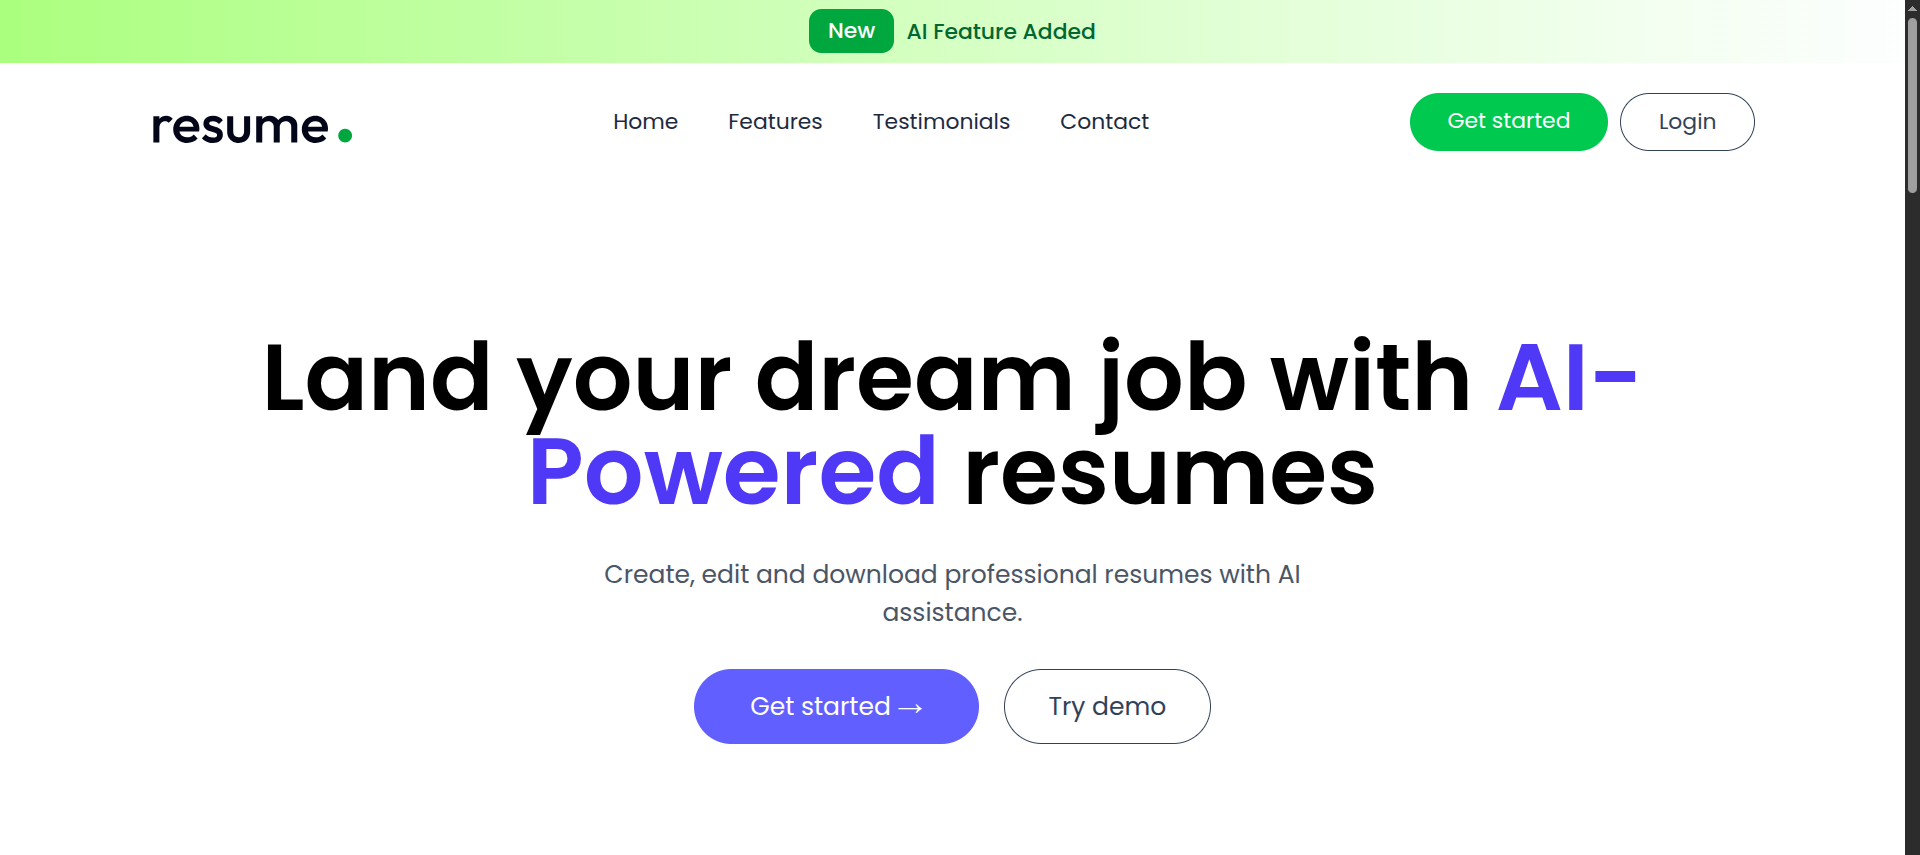
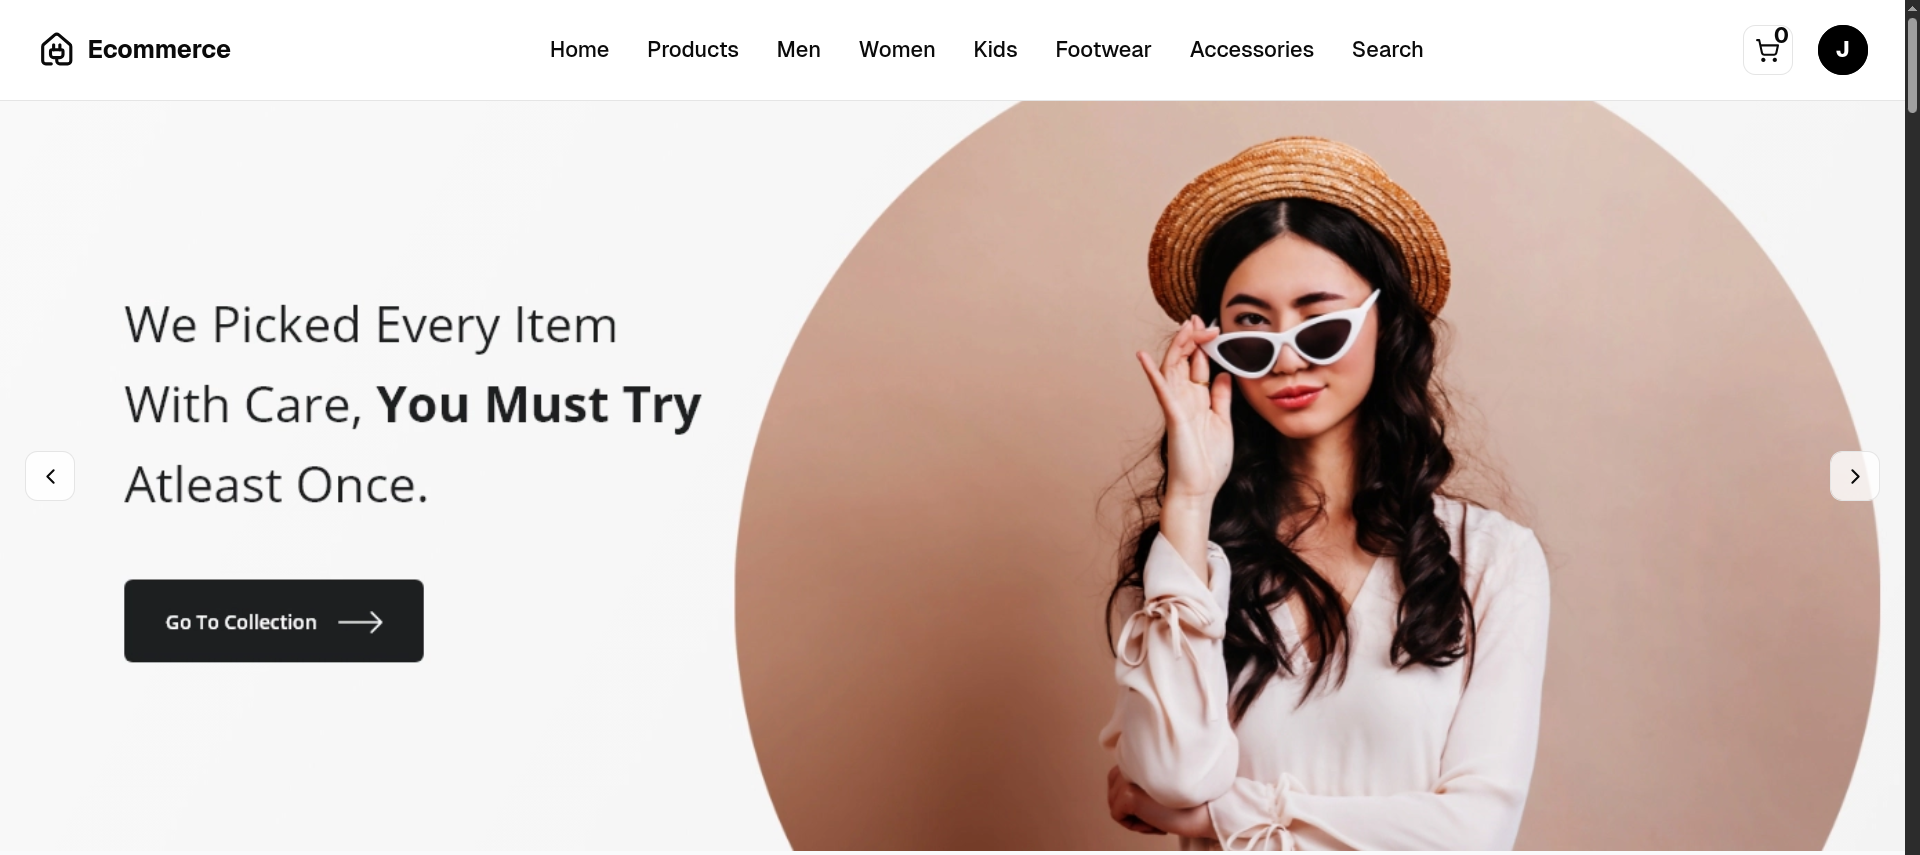
lms project added

diff --git a/src/components/Projects.jsx b/src/components/Projects.jsx
@@ -192,42 +192,300 @@
 
 // export default Projects;
 
-import React from "react";
+
+
+
+
+// import React from "react";
+// import project1 from "../assets/project1.png";
+// import project2 from "../assets/project2.png";
+// import project3 from "../assets/project3.png";
+// import project4 from "../assets/project4.png";
+// import { FaExternalLinkAlt, FaGithub } from "react-icons/fa";
+
+// const Projects = ({ darkMode }) => {
+//   const projects = [
+//     {
+//       id: 1,
+//       title: "MERN-AI-Learning Management System",
+//       desc: "An AI-powered Learning Management System that enables educators to create and manage courses while students can enroll, learn, review courses, make secure payments, and search content using an AI voice assistant.",
+//       image: project1,
+//       tags: ["React.js ","Node.js","Express.js","MongoDB","Tailwind CSS","Firebase","Open AI","Redux toolkit","Cloudinary"],
+//       github: "https://github.com/jofimoljohnson/MERN-AI-LMS",
+//       demo: "https://mern-ai-lms.vercel.app",
+//     },
+//     {
+//       id: 2,
+//       title: "E-Commerce Platform",
+//       desc: "A full-stack e-commerce platform with authentication, cart management, PayPal checkout, and admin features for product and order management.",
+//       image: project2,
+//       tags: ["React.js", "Redux Toolkit", "Node.js", "Express.js", "MongoDB", "Tailwind CSS", "shadcn/ui"],
+//       github: "https://github.com/jofimoljohnson/Mern-ecommerce",
+//       demo: "https://mern-ecommerce-gzvy.vercel.app",
+//     },
+//     {
+//       id: 3,
+//       title: "AI Resume Builder",
+//       desc: "An AI-powered resume builder that allows users to create, customize, save, and download professional resumes with real-time preview.",
+//       image: project3,
+//       tags: ["React.js", "Tailwind CSS", "Redux Toolkit", "Node.js", "Express.js", "MongoDB", "OpenAI API", "ImageKit"],
+//       github: " https://github.com/jofimoljohnson/MERN-RESUME-BUILDER",
+//       demo: " https://mern-resume-builder-4suh.vercel.app",
+//     },
+//     {
+//       id: 4,
+//       title: "YouTube Clone",
+//       desc: "A responsive YouTube-style web application with video browsing, API-based data fetching, cateogory-based filtering, routing, and related video suggestions.",
+//       image: project4,
+//       tags: ["React JS", "Axios", "Material-UI", "React-router-dom", "CSS", "React Router"],
+//       github: "https://github.com/jofimoljohnson/YOUTUBE-CLONE-PROJECT",
+//       demo: "https://youtube-clone-omega-flax.vercel.app",
+//     },
+//   ];
+
+//   return (
+//     <div>
+//       <section
+//         id="projects"
+//         style={{
+//           backgroundColor: darkMode ? "#111827" : "#f9fafb",
+//         }}
+//         className="relative py-24"
+//       >
+//         <div className="container mx-auto px-4">
+//           {/* Heading */}
+//           <div className="text-center mb-10" data-aos="fade-up">
+//             <h2
+//               className="text-3xl sm:text-4xl font-bold mb-3"
+//               style={{
+//                 color: darkMode ? "white" : "#1f2937",
+//               }}
+//             >
+//               My{" "}
+//               <span
+//                 style={{
+//                   background: "linear-gradient(to right, #f97316, #f59e0b)",
+//                   WebkitBackgroundClip: "text",
+//                   backgroundClip: "text",
+//                   color: "transparent",
+//                 }}
+//               >
+//                 Projects
+//               </span>
+//             </h2>
+
+//             <p
+//               className="max-w-xl mx-auto"
+//               style={{
+//                 color: darkMode ? "#d1d5db" : "#6b7280",
+//               }}
+//             >
+//               A showcase of my recent work
+//             </p>
+//           </div>
+
+//           {/* Projects Grid */}
+//           <div className="grid grid-cols-1 md:grid-cols-2 lg:grid-cols-3 gap-5 mb-12">
+//             {projects.map((project, index) => (
+//               <div
+//                 key={project.id}
+//                 style={{
+//                   background: darkMode
+//                     ? "linear-gradient(to right, #1f2937, #111827)"
+//                     : "linear-gradient(to right, #ffffff, #f9fafb)",
+//                   borderColor: darkMode ? "#374151" : "#e5e7eb",
+//                 }}
+//                 className="group rounded-xl border duration-300 hover:border-orange-500/50 transition-all overflow-hidden"
+//                 data-aos="fade-up"
+//                 data-aos-delay={index * 100}
+//               >
+//                 {/* Image */}
+//                 <div className="h-36 overflow-hidden">
+//                   <img
+//                     src={project.image}
+//                     alt={project.title}
+//                     className="w-full h-full object-cover group-hover:scale-110 transition-transform duration-500"
+//                   />
+//                 </div>
+
+//                 {/* Content */}
+//                 <div className="p-4">
+//                   <h3
+//                     className="text-lg font-bold mb-2"
+//                     style={{
+//                       color: darkMode ? "white" : "#1f2937",
+//                     }}
+//                   >
+//                     {project.title}
+//                   </h3>
+
+//                   <p
+//                     className="text-sm mb-3"
+//                     style={{
+//                       color: darkMode ? "#d1d5db" : "#6b7280",
+//                     }}
+//                   >
+//                     {project.desc}
+//                   </p>
+
+//                   {/* Tags */}
+//                   <div className="flex flex-wrap gap-1.5 mb-4">
+//                     {project.tags.map((tag, idx) => (
+//                       <span
+//                         key={idx}
+//                         style={{
+//                           backgroundColor: darkMode ? "#374151" : "#f3f4f6",
+//                           color: darkMode ? "#d1d5db" : "#4b5563",
+//                         }}
+//                         className="px-2 py-1 text-xs rounded-full"
+//                       >
+//                         {tag}
+//                       </span>
+//                     ))}
+//                   </div>
+
+//                   {/* Buttons */}
+//                   <div className="flex gap-2">
+//                     {/* Code Button */}
+//                     <a
+//                       href={project.github}
+//                       style={{
+//                         backgroundColor: darkMode ? "#374151" : "#f3f4f6",
+//                         color: darkMode ? "white" : "#374151",
+//                       }}
+//                       className="flex-1 flex items-center justify-center gap-1.5 px-3 py-2 text-sm rounded-lg hover:opacity-90 transition-colors"
+//                     >
+//                       <FaGithub className="text-sm" />
+//                       <span>Code</span>
+//                     </a>
+
+//                     {/* Demo Button */}
+//                     <a
+//                       href={project.demo}
+//                       style={{
+//                         background:
+//                           "linear-gradient(to right, #f97316, #f59e0b)",
+//                       }}
+//                       className="flex-1 flex items-center justify-center gap-1.5 px-3 py-2 text-white text-sm rounded-lg hover:shadow-lg hover:shadow-orange-500/25 transition-all"
+//                     >
+//                       <FaExternalLinkAlt className="text-sm" />
+//                       <span>Demo</span>
+//                     </a>
+//                   </div>
+//                 </div>
+//               </div>
+//             ))}
+//           </div>
+
+//           {/* View All Projects */}
+//           <div className="text-center mt-10">
+//             <a
+//               href="#"
+//               style={{
+//                 background: "linear-gradient(to right, #f97316, #f59e0b)",
+//               }}
+//               className="inline-flex items-center font-semibold gap-2 px-7 py-4 text-white text-sm rounded-full hover:shadow-lg hover:shadow-orange-500/25 transition-all"
+//             >
+//               <FaGithub />
+//               <span>View All Projects</span>
+//               <FaExternalLinkAlt className="text-sm" />
+//             </a>
+//           </div>
+//         </div>
+//       </section>
+//     </div>
+//   );
+// };
+
+// export default Projects;
+
+
+
+
+import React, { useState } from "react";
 import project1 from "../assets/project1.png";
 import project2 from "../assets/project2.png";
 import project3 from "../assets/project3.png";
+import project4 from "../assets/project4.png";
 import { FaExternalLinkAlt, FaGithub } from "react-icons/fa";
 
 const Projects = ({ darkMode }) => {
+  const [showAll, setShowAll] = useState(false);
+
   const projects = [
     {
       id: 1,
+      title: "MERN-AI-Learning Management System",
+      desc: "An AI-powered Learning Management System that enables educators to create and manage courses while students can enroll, learn, review courses, make secure payments, and search content using an AI voice assistant.",
+      image: project1,
+      tags: [
+        "React.js",
+        "Node.js",
+        "Express.js",
+        "MongoDB",
+        "Tailwind CSS",
+        "Firebase",
+        "Open AI",
+        "Redux toolkit",
+        "Cloudinary",
+      ],
+      github: "https://github.com/jofimoljohnson/MERN-AI-LMS",
+      demo: "https://mern-ai-lms.vercel.app",
+    },
+    {
+      id: 2,
       title: "E-Commerce Platform",
       desc: "A full-stack e-commerce platform with authentication, cart management, PayPal checkout, and admin features for product and order management.",
-      image: project1,
-      tags: ["React.js", "Redux Toolkit", "Node.js", "Express.js", "MongoDB", "Tailwind CSS", "shadcn/ui"],
+      image: project2,
+      tags: [
+        "React.js",
+        "Redux Toolkit",
+        "Node.js",
+        "Express.js",
+        "MongoDB",
+        "Tailwind CSS",
+        "shadcn/ui",
+      ],
       github: "https://github.com/jofimoljohnson/Mern-ecommerce",
       demo: "https://mern-ecommerce-gzvy.vercel.app",
     },
     {
-      id: 2,
+      id: 3,
       title: "AI Resume Builder",
       desc: "An AI-powered resume builder that allows users to create, customize, save, and download professional resumes with real-time preview.",
-      image: project2,
-      tags: ["React.js", "Tailwind CSS", "Redux Toolkit", "Node.js", "Express.js", "MongoDB", "OpenAI API", "ImageKit"],
-      github: " https://github.com/jofimoljohnson/MERN-RESUME-BUILDER",
-      demo: " https://mern-resume-builder-4suh.vercel.app",
+      image: project3,
+      tags: [
+        "React.js",
+        "Tailwind CSS",
+        "Redux Toolkit",
+        "Node.js",
+        "Express.js",
+        "MongoDB",
+        "OpenAI API",
+        "ImageKit",
+      ],
+      github: "https://github.com/jofimoljohnson/MERN-RESUME-BUILDER",
+      demo: "https://mern-resume-builder-4suh.vercel.app",
     },
     {
-      id: 3,
+      id: 4,
       title: "YouTube Clone",
-      desc: "A responsive YouTube-style web application with video browsing, API-based data fetching, cateogory-based filtering, routing, and related video suggestions.",
-      image: project3,
-      tags: ["React JS", "Axios", "Material-UI", "React-router-dom", "CSS", "React Router"],
+      desc: "A responsive YouTube-style web application with video browsing, API-based data fetching, category-based filtering, routing, and related video suggestions.",
+      image: project4,
+      tags: [
+        "React JS",
+        "Axios",
+        "Material-UI",
+        "React-router-dom",
+        "CSS",
+        "React Router",
+      ],
       github: "https://github.com/jofimoljohnson/YOUTUBE-CLONE-PROJECT",
       demo: "https://youtube-clone-omega-flax.vercel.app",
     },
   ];
+
+  const visibleProjects = showAll ? projects : projects.slice(0, 3);
 
   return (
     <div>
@@ -272,7 +530,7 @@ const Projects = ({ darkMode }) => {
 
           {/* Projects Grid */}
           <div className="grid grid-cols-1 md:grid-cols-2 lg:grid-cols-3 gap-5 mb-12">
-            {projects.map((project, index) => (
+            {visibleProjects.map((project, index) => (
               <div
                 key={project.id}
                 style={{
@@ -334,7 +592,9 @@ const Projects = ({ darkMode }) => {
                   <div className="flex gap-2">
                     {/* Code Button */}
                     <a
-                      href={project.github}
+                      href={project.github.trim()}
+                      target="_blank"
+                      rel="noopener noreferrer"
                       style={{
                         backgroundColor: darkMode ? "#374151" : "#f3f4f6",
                         color: darkMode ? "white" : "#374151",
@@ -347,7 +607,9 @@ const Projects = ({ darkMode }) => {
 
                     {/* Demo Button */}
                     <a
-                      href={project.demo}
+                      href={project.demo.trim()}
+                      target="_blank"
+                      rel="noopener noreferrer"
                       style={{
                         background:
                           "linear-gradient(to right, #f97316, #f59e0b)",
@@ -364,19 +626,22 @@ const Projects = ({ darkMode }) => {
           </div>
 
           {/* View All Projects */}
-          <div className="text-center mt-10">
-            <a
-              href="#"
-              style={{
-                background: "linear-gradient(to right, #f97316, #f59e0b)",
-              }}
-              className="inline-flex items-center font-semibold gap-2 px-7 py-4 text-white text-sm rounded-full hover:shadow-lg hover:shadow-orange-500/25 transition-all"
-            >
-              <FaGithub />
-              <span>View All Projects</span>
-              <FaExternalLinkAlt className="text-sm" />
-            </a>
-          </div>
+          {projects.length > 3 && (
+            <div className="text-center mt-10">
+              <button
+                type="button"
+                onClick={() => setShowAll(!showAll)}
+                style={{
+                  background: "linear-gradient(to right, #f97316, #f59e0b)",
+                }}
+                className="inline-flex items-center font-semibold gap-2 px-7 py-4 text-white text-sm rounded-full hover:shadow-lg hover:shadow-orange-500/25 transition-all"
+              >
+                <FaGithub />
+                <span>{showAll ? "Show Less" : "View All Projects"}</span>
+                <FaExternalLinkAlt className="text-sm" />
+              </button>
+            </div>
+          )}
         </div>
       </section>
     </div>

diff --git a/src/components/Skills.jsx b/src/components/Skills.jsx
@@ -377,8 +377,8 @@ const Skills = ({ darkMode }) => {
               color: darkMode ? "#d1d5db" : "#4b5563",
             }}
           >
-            Lorem ipsum dolor sit amet consectetur adipisicing elit.
-            Totam corporis maxime veritatis.
+            {/* Lorem ipsum dolor sit amet consectetur adipisicing elit.
+            Totam corporis maxime veritatis. */}
           </p>
         </div>
 